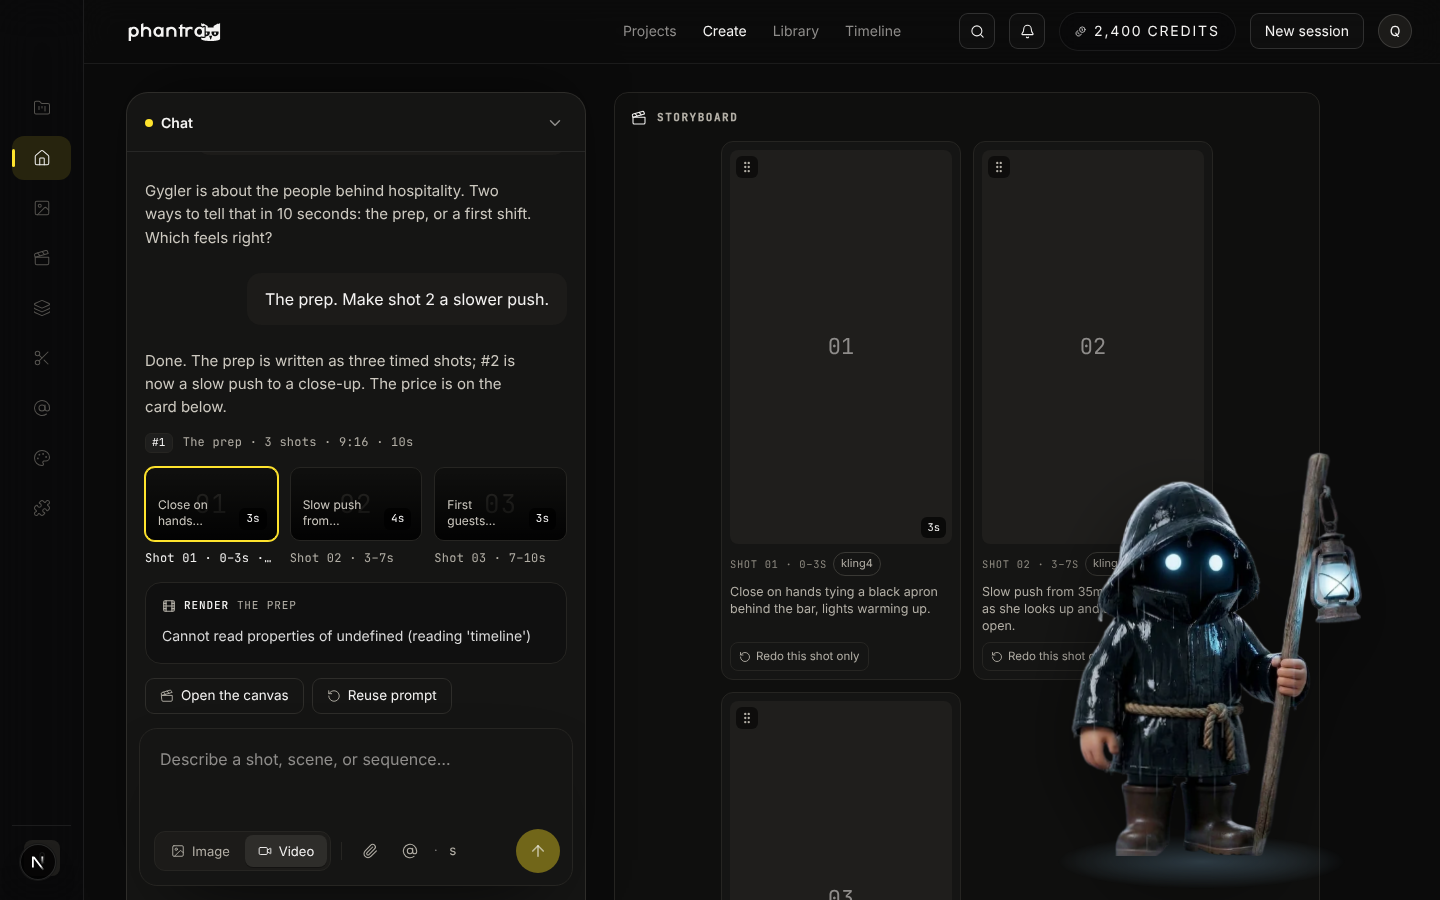
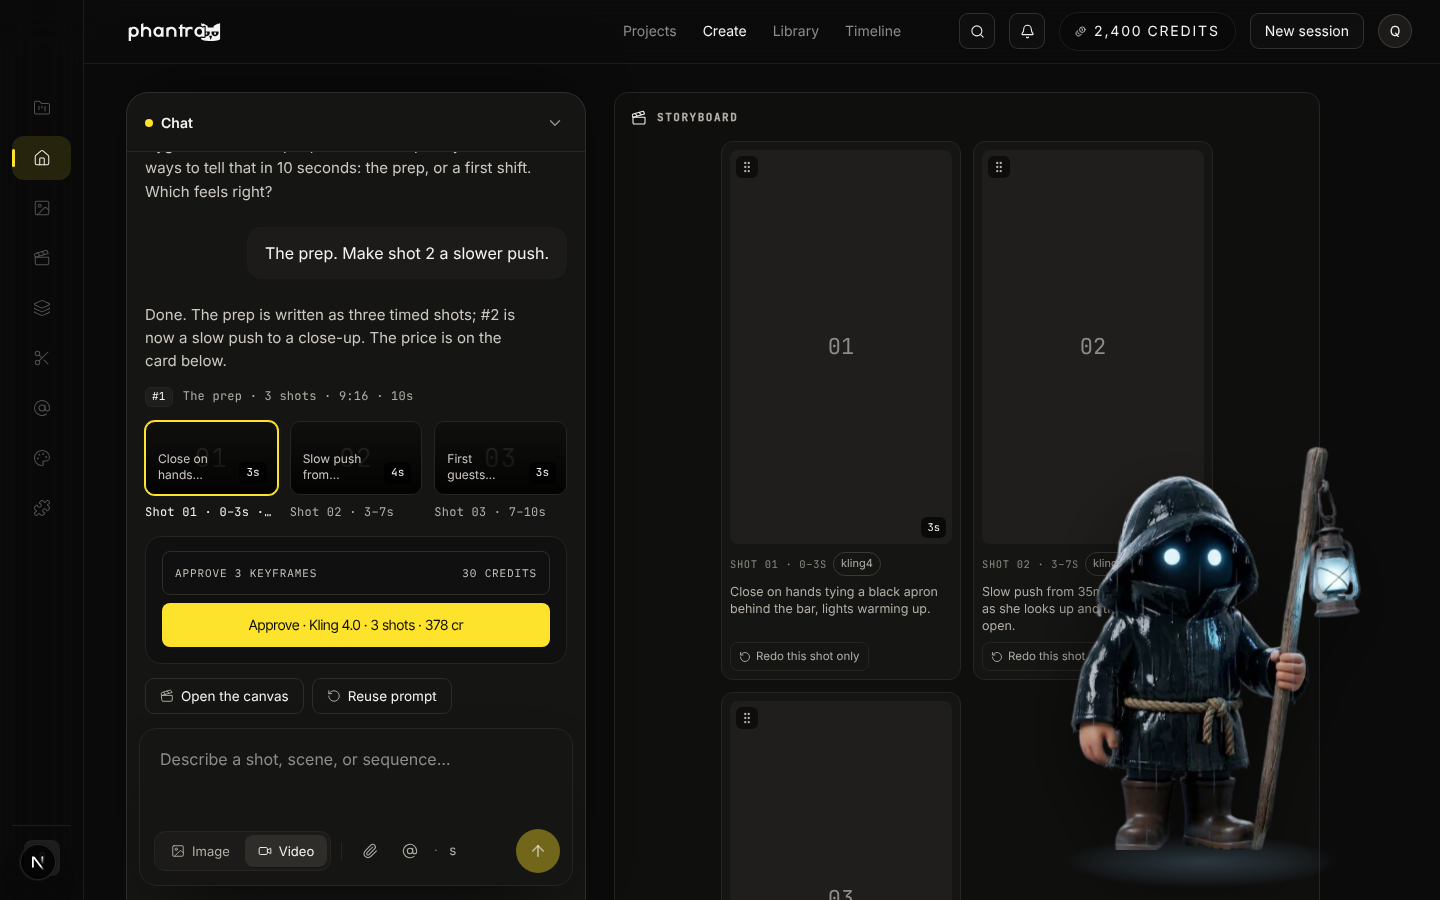
studio: approve buttons only in the chat; clear to the final cut after a render
The chat's Render card is now just the priced Approve buttons (keyframes,
then the render, each with its model and price). When the shots are
joined into the final cut, the conversation is cut down to that one turn;
a one-shot scene clears when its clip lands.

Claude-Session: https://claude.ai/code/session_01HerNxjYubDzZvq7B11Z2uk

diff --git a/web/src/components/studio/render-card.tsx b/web/src/components/studio/render-card.tsx
@@ -61,6 +61,7 @@ import {
   keyframeButton,
   keyframeCeilingNote,
   keyframeCount,
+  priceText,
   keyframeNote,
   keyframePrice,
   legalDuration,
@@ -97,9 +98,17 @@ export type RenderCardProps = {
   onScene?: (scene: Concept) => void;
   /** the shots are drawn right above the card (the composer's turn): no strip */
   noStrip?: boolean;
+  /** THE CHAT'S CARD (2026-10-23, Mike: "i just want approve buttons"):
+   *  only the priced Approve buttons -- the keyframes, then the render --
+   *  each carrying its model and price, plus why a scene cannot render yet.
+   *  No model popover, no draft toggle, no one-shot buttons: the model is
+   *  picked on the box's settings line, and the full card still opens from
+   *  the storyboard and the workspace. When the last clip lands the chat
+   *  joins the shots into one video (the Final cut), as before. */
+  approveOnly?: boolean;
 };
 
-export function RenderCard({ conceptId, onCanvas, onStarted, onScene, noStrip }: RenderCardProps) {
+export function RenderCard({ conceptId, onCanvas, onStarted, onScene, noStrip, approveOnly }: RenderCardProps) {
   const { balance, toast } = useShell();
   const jobs = useJobs();
   const [scene, setScene] = useState<Concept | null>(null);
@@ -281,6 +290,66 @@ export function RenderCard({ conceptId, onCanvas, onStarted, onScene, noStrip }:
       setBusy("");
     }
   };
+
+  if (approveOnly) {
+    const modelName = pick ? (r?.models || []).find((m) => m.id === pick.model)?.label || pick.model : "";
+    const ready = !disabled && !!plan;
+    const approveLabel = ready ? `Approve · ${modelName} · ${plan!.n} shot${plan!.n === 1 ? "" : "s"} · ${priceText(plan!, exempt)}` : label;
+    const kf = !locked && done.state !== "done" && (scene.keyframes || drawing) ? scene.keyframes : null;
+    return (
+      <div className="flex min-w-0 flex-col gap-2" data-render-card={scene.id} data-approve-only="">
+        {locked ? (
+          <>
+            <p className={`${NOTE} text-noir-danger!`} role="alert">
+              {why}
+            </p>
+            {!onCanvas ? (
+              <Link
+                href={sceneHref(scene.id, 1)}
+                className="inline-flex min-h-11 items-center self-start rounded-[8px] border border-noir-line px-3 font-plex! text-[11px]! tracking-[0.08em] text-noir-red2! hover:border-noir-red2"
+              >
+                ATTACH REFERENCES ON ITS CANVAS →
+              </Link>
+            ) : null}
+          </>
+        ) : null}
+        {kf || drawing ? (
+          <button
+            type="button"
+            disabled={!!drawing || busy === "keyframes" || working || !scene.keyframes}
+            onClick={() => void draw()}
+            className="inline-flex min-h-11 items-center justify-between gap-2 rounded-[8px] border border-noir-line px-3 font-plex! text-[11px]! tracking-[0.08em] text-bone! hover:enabled:border-bone disabled:cursor-wait disabled:text-bone3!"
+          >
+            <span>
+              {drawing || busy === "keyframes"
+                ? `DRAWING KEYFRAMES…${drawing?.detail ? ` ${drawing.detail.toUpperCase()}` : ""}`
+                : `APPROVE ${keyframeCount(scene.keyframes!).toUpperCase()}`}
+            </span>
+            {scene.keyframes ? <span className="shrink-0 whitespace-nowrap">{keyframePrice(scene.keyframes, exempt).toUpperCase()}</span> : null}
+          </button>
+        ) : null}
+        {done.state !== "done" && !locked ? (
+          <button
+            type="button"
+            data-render={scene.id}
+            disabled={disabled}
+            title={approveLabel}
+            onClick={() => void approve()}
+            className="min-h-11 min-w-0 truncate rounded-[8px] bg-noir-red px-3 font-tight! text-[14px]! font-semibold leading-none! text-noir-bg! hover:enabled:bg-noir-red2 focus-visible:rounded-[8px]! disabled:cursor-not-allowed disabled:bg-noir-line2 disabled:text-bone3!"
+          >
+            {approveLabel}
+          </button>
+        ) : null}
+        {rendering ? (
+          <p className={NOTE} role="status">
+            {rendering.detail || "Rendering"} · the shots join into one video when the last one lands.
+          </p>
+        ) : done.state === "partial" && !locked ? (
+          <p className={NOTE}>{why}</p>
+        ) : null}
+      </div>
+    );
+  }
 
   return (
     <div className="flex min-w-0 flex-col gap-3" data-render-card={scene.id}>

diff --git a/web/src/app/studio/(create)/create-view.tsx b/web/src/app/studio/(create)/create-view.tsx
@@ -136,7 +136,7 @@ import { DurationPill, type SceneLengths } from "@/components/studio/duration-pi
 import { ElementSheet } from "@/components/studio/element-sheet";
 import { RenderDialog } from "@/components/studio/render-card";
 import { partsOf } from "@/components/studio/concept-card";
-import { shouldJoin, type FinalCut } from "@/lib/final-cut";
+import { keepOnlyCut, shouldJoin, type FinalCut } from "@/lib/final-cut";
 import { ELEMENT_KINDS, displayPhoto, drawable, elementFrames, elementKind, isElement, kindLabel, type ElementKind } from "@/lib/elements";
 import { handoffKind, openingProject } from "@/lib/handoff";
 import { kitParam } from "@/lib/kit-use";
@@ -2545,6 +2545,11 @@ function Composer() {
     patchMade(madeId, parts.length ? { parts } : { sceneClip: whole });
     // the last shot just landed: join them into one video, here (free)
     if (t.made.conceptId && shouldJoin(t.made.parts, parts, t.made.finalCut)) void joinShots(madeId, t.made.conceptId);
+    // a one-shot scene has nothing to join: its clip landing is the end of
+    // the render, so the chat clears down to it as a joined cut does
+    const oneClip = (ps: { media_url?: string | null }[] | undefined, w: string | null | undefined) =>
+      (ps?.length === 1 && !!ps[0].media_url) || (!ps?.length && !!w);
+    if (!oneClip(t.made.parts, t.made.sceneClip) && oneClip(parts, whole)) setTurnsRaw((ts) => keepOnlyCut(ts, madeId));
   }
 
   /* RUNWAY'S FINAL CUT, in the turn (2026-10-20): the shots joined in
@@ -2582,6 +2587,10 @@ function Composer() {
           },
         });
         toast(job.asset ? "Final cut ready · it's in your Library" : "Final cut ready · the shots are joined into one video");
+        // the render is through: the chat clears down to this final cut, so
+        // the next idea starts clean (2026-10-23, Mike's pick). Not through
+        // setThread: a shrinking thread must not move the address.
+        setTurnsRaw((ts) => keepOnlyCut(ts, madeId));
       } else {
         patchMade(madeId, {
           finalCut: { status: "failed", jobId, detail: job.error || "The shots were not joined. Nothing was charged." },

diff --git a/web/src/components/studio/composer/turns.tsx b/web/src/components/studio/composer/turns.tsx
@@ -611,12 +611,9 @@ function MadeView({ m, live, h, turn }: { m: Made; live?: Live; h: Handlers; tur
         // spends. It reads the scene back when a render ends, and the clips
         // land on the tiles above; once every shot has one, it goes away.
         <div className={`ss ${cardFonts}`} data-render-turn={m.conceptId}>
-          <div className="ss-head">
-            <Film aria-hidden />
-            <b>Render</b>
-            <span>{m.title || "this scene"}</span>
-          </div>
-          <RenderCard conceptId={m.conceptId} noStrip onScene={(c) => h.onScene(m.id, c)} />
+          {/* just the priced Approve buttons here (2026-10-23, Mike); the
+              full card, with its model pick, opens from the storyboard */}
+          <RenderCard conceptId={m.conceptId} noStrip approveOnly onScene={(c) => h.onScene(m.id, c)} />
         </div>
       ) : null}
       {h.v2 && state === "done" && m.output === "video" && m.conceptId ? (

diff --git a/web/src/lib/final-cut.ts b/web/src/lib/final-cut.ts
@@ -77,3 +77,13 @@ export function cutLine(cut: FinalCut, shots: number): string {
   const len = typeof cut.seconds === "number" && cut.seconds > 0 ? ` · ${cut.seconds.toFixed(1)}s` : "";
   return `Final cut · ${shots} shots${len} · free${cut.asset ? " · in your Library" : ""}`;
 }
+
+/** The chat once a scene's shots are joined (2026-10-23, Mike: "the
+ *  conversation doesn't clear after we render"): only the turn that carries
+ *  the final cut stays, so the next idea starts on a clean chat. Everything
+ *  the talk made is in the Library already; nothing is deleted there. A
+ *  thread without that turn is left as it is. */
+export function keepOnlyCut<T extends { made?: { id?: string } | null }>(turns: T[], madeId: string): T[] {
+  const kept = turns.filter((t) => t.made?.id === madeId);
+  return kept.length ? kept : turns;
+}

diff --git a/docs/tasks/task-chat-corner-sheet.md b/docs/tasks/task-chat-corner-sheet.md
@@ -39,3 +39,20 @@ steps and every other priced card stay in the thread, as before.
   in view, the lowered tab on the bottom edge. Screens: `docs/qa/screens-2026-10-23/chat-sheet-*.png`.
 - Not verified: the real API and a real account's thread, a project's dock row inside the sheet,
   and a long conversation's scroll against live job updates.
+
+## Approve buttons only, and the chat clears after a render (2026-10-23, later)
+
+Mike: "i just want approve buttons, when we render the seperate clips ffmeg assembles one video",
+and "the conversation doesnt clear after we render" (he picked "keep only the final video").
+
+- `RenderCard approveOnly` (the chat turn's card): only `APPROVE N KEYFRAMES · <price>` and
+  `Approve · <model> · N shots · <price>`, plus why a scene cannot render yet. The model popover,
+  draft toggle, one-shot keyframe buttons and the long notes stay on the full card (the
+  storyboard's Redo and the workspace open it); the model is picked on the box's settings line.
+- The join was already there: the last shot landing joins the shots into one MP4 (the editor's
+  Assemble, ffmpeg, free) and files it as "Final cut".
+- When that join finishes, the thread is cut to the one turn carrying the final cut
+  (`final-cut.keepOnlyCut`); a one-shot scene clears the same way when its clip lands. Through
+  `setTurnsRaw`, so the shrink never moves the address. Nothing is deleted from the Library.
+- Checked: typecheck, node tests (325, one new), eslint, and the card in the mocked dev server.
+  Not checked live: a real render ending, the join and the clear in order.
